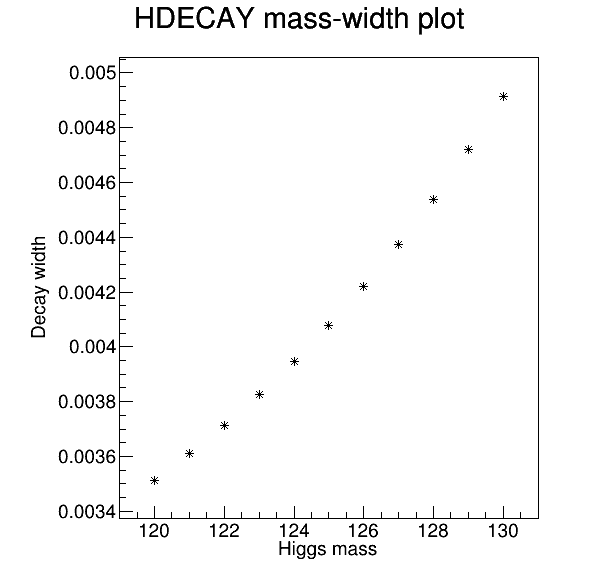
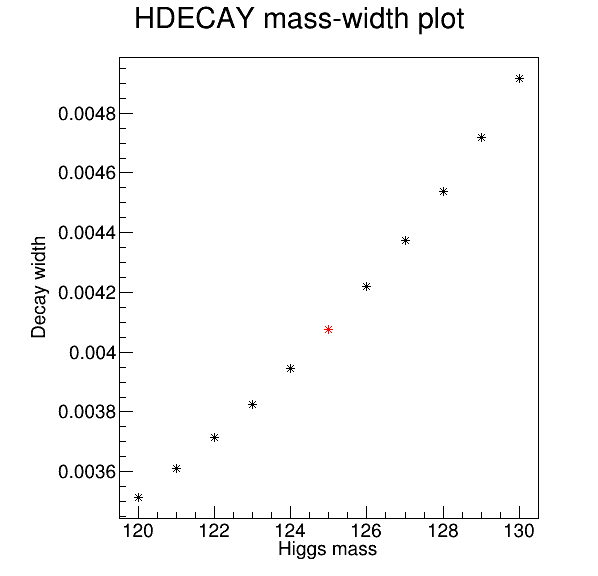
Updating exercise

diff --git a/Ex7/Stadnitski/GetWidth.py b/Ex7/Stadnitski/GetWidth.py
@@ -47,19 +47,35 @@ def read(fileName):
     massTree = sim.Get('massTree')
     widthTree = sim.Get('widthTree')
 
-    m, w = array( 'f' ), array( 'f' )
+    m, w = array('f'), array('f')
     massLeaf = massTree.GetLeaf('m')
     widthLeaf = widthTree.GetLeaf('w')
 
     N = massTree.GetEntries()
+    m125, w125 = array('f'), array('f')
 
     for i in range(N):
         massTree.GetEntry(i)
         m.append(massLeaf.GetValue())
         widthTree.GetEntry(i)
         w.append(widthLeaf.GetValue())
+        if m[i] == 125:
+            m125.append(125)
+            w125.append(w[i])
 
-    graph = TGraph(N, m, w)
+    print(type(w125))
+    print(type(m))
+
+    graph = TMultiGraph()
+
+    graph0 = TGraph(N, m, w)
+    #graph.Draw('A*')
+    graph.Add(graph0)
+
+    graph1 = TGraph(1, m125, w125)
+    graph1.SetMarkerColor(2)
+    graph.Add(graph1)
+
     graph.Draw('A*')
 
     graph.SetTitle('HDECAY mass-width plot')
@@ -67,43 +83,8 @@ def read(fileName):
     graph.GetXaxis().CenterTitle(True)
     graph.GetYaxis().SetTitle('Decay width')
     graph.GetYaxis().CenterTitle(True)
+    graph
 
     canvas.Print('graph.png')
 
 if __name__ == '__main__': main()
-
-'''
-    canvas = TCanvas('Canvas', '', 600, 600)
-    canvas.SetFillColor(0)
-    canvas.cd()
-    
-    normals = TFile.Open('normals.root', 'READ')
-    tree = normals.Get('tree')
-    hist = TH1F('hist', 'Standard Gaussian, N = 1000', 100, -4, 4)
-    
-    n = array('f', [0])
-    tree.Branch('n', n, 'n/F')
-    N = tree.GetEntries()
-        
-    for i in tree: hist.Fill(i.n)
-
-    hist.SetFillColor(5)
-    hist.SetLineColor(1)
-    hist.SetLineWidth(3)
-
-    hist.GetXaxis().SetTitle('Simulated variable')
-    hist.GetXaxis().CenterTitle(True)
-    hist.GetYaxis().SetTitle('Number of hits')
-    hist.GetYaxis().CenterTitle(True)
-
-    hist.Fit('gaus')
-    hist.SetStats(0)
-    hist.Draw()
-
-    canvas.Print('graph.C')
-    canvas.Print('graph.eps')
-    canvas.Print('graph.png')
-    
-    print('Reached end of main')
-
-'''
